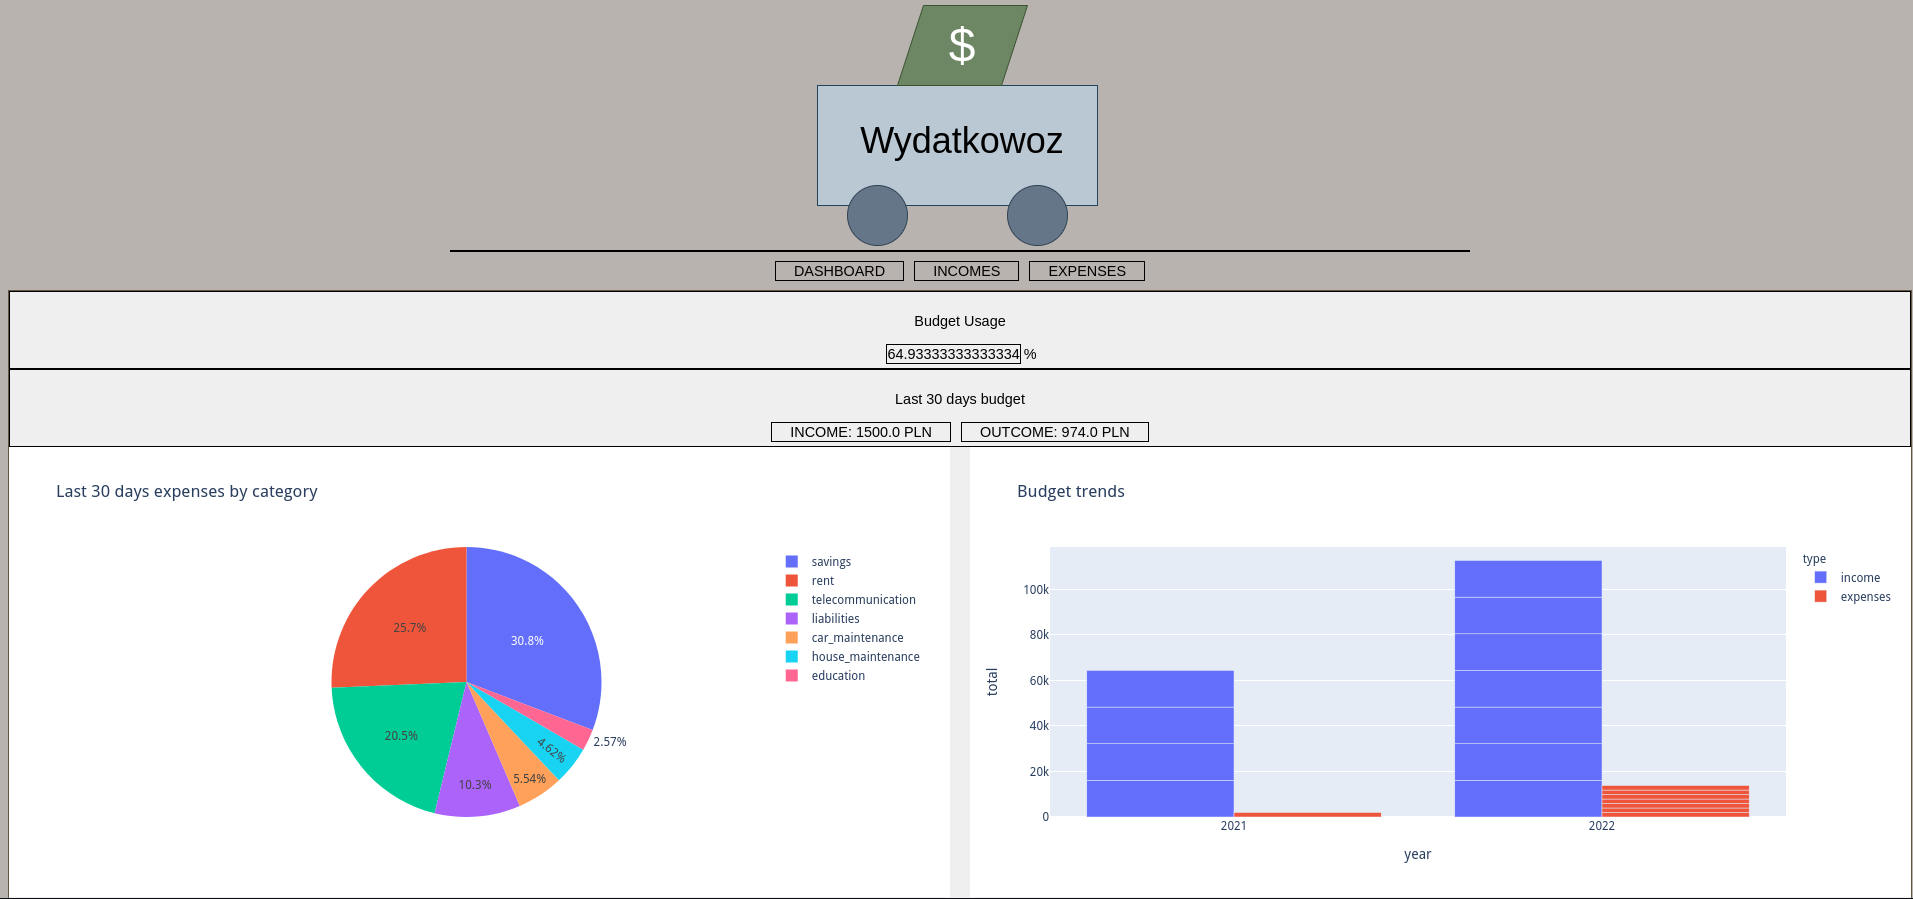
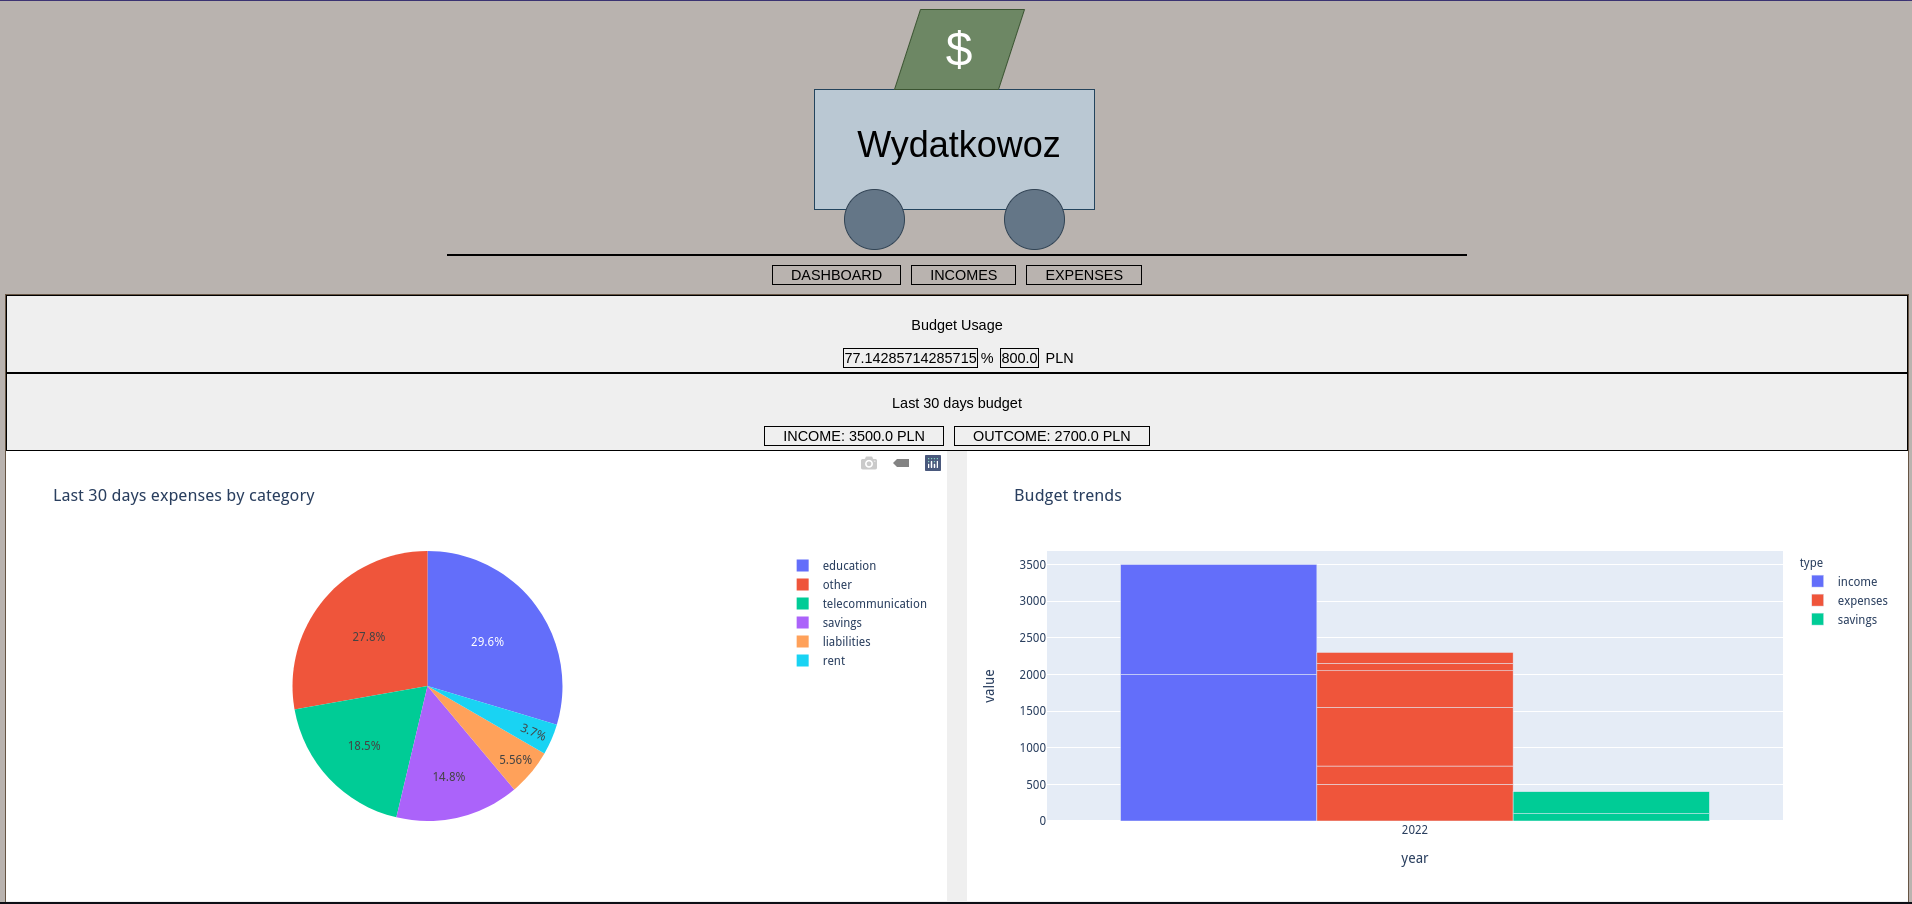
Title: Added delete and update operations for expenses
Details:
 1. Added delete and update operations for expenses
 2. Added api version to CRUD operations for expenses
 3. Added average line to existed budget plot

diff --git a/web/templates/edit_expenses.html b/web/templates/edit_expenses.html
@@ -1,0 +1,35 @@
+{% extends "index.html" %}
+{% block base %}
+<div id="form_box">
+    <p>Edit Expenses</p>
+    {% for item in items %}
+        <form class="form_navi" method="POST" action="{{ url_for('UpdateExpenses')}}">
+            <input type="hidden" name="id" value="{{ item[0] }}">
+            <label>Date</label>
+            <input type="date" name="outcome_date" value="{{ item[2] }}" required="required">
+            <label>Expenses</label>
+            <input type="text" name="outcome" value="{{ item[3] }}" required="required">
+            <label>Description</label>
+            <input type="text" name="description" value="{{ item[4] }}">
+            <label>Category</label>
+            <select name="category">
+                <option value=0>rent</option>
+                <option value=1>savings</option>
+                <option value=2>telecommunication</option>
+                <option value=3>liabilities</option>
+                <option value=4>house_maintenance</option>
+                <option value=5>car_maintenance</option>
+                <option value=6>education</option>
+                <option value=7>entertainment</option>
+                <option value=8 selected>other</option>
+            </select>
+            <label>Was payed?</label>
+            <input type="radio" name="waspayed" value="True" checked="checked">
+            yes
+            <input type="radio" name="waspayed" value="False">
+            no
+            <input type="submit" value="Submit">
+        </form>
+    {% endfor %}
+</div>
+{% endblock %}

diff --git a/web/templates/outcomes.html b/web/templates/outcomes.html
@@ -36,6 +36,7 @@
         <th>Description</th>
         <th>Category</th>
         <th>wasPayed?</th>
+        <th>Actions</th>
     </tr>
     {% for item in items %}
     <tr>
@@ -44,6 +45,10 @@
     <td> {{ item[4] }}</td>
     <td> {{ item[5] }}</td>
     <td> {{ item[6] }}</td>
+    <td>
+        <a href="{{ url_for('DeleteExpenses', id=item[0]) }}">Delete</a>
+        <a href="{{ url_for('EditExpenses', id=item[0]) }}">Edit</a>
+    </td>
     </tr>
     {% endfor %}
 </table>

diff --git a/resources/restApi.py b/resources/restApi.py
@@ -75,11 +75,19 @@ def NewIncomes():
 
 @app.route('/api/v1/expenses',methods=['POST'])
 def NewExpenses():
-    date = flask.request.form['outcome_date']
-    outcome = flask.request.form['outcome']
-    description = flask.request.form['description']
-    category = flask.request.form['category']
-    waspayed = flask.request.form['waspayed']
+    if flask.request.content_type == 'application/json':
+        json_data = flask.request.json
+        date = json_data['date']
+        outcome = json_data['value']
+        description = json_data['name']
+        category = json_data['category']
+        waspayed = json_data['waspayed']
+    else:
+        date = flask.request.form['outcome_date']
+        outcome = flask.request.form['outcome']
+        description = flask.request.form['description']
+        category = flask.request.form['category']
+        waspayed = flask.request.form['waspayed']
     if description:
         data = {'date':date, 'value':outcome, 'name':description, 'category':int(category),'was_payed':waspayed}
     else:
@@ -133,13 +141,45 @@ def UpdateIncomes():
         response = db.UpdateIncome(id,date,date,income,description)
         return flask.render_template('status.html', value=response)
 
-@app.route('/api/v1/expenses/id=<int:id>',methods=['DELETE'])
+@app.route('/api/v1/expenses/delete/<int:id>',methods=['DELETE','GET'])
 def DeleteExpenses(id):
     db = utils.BudgetDatabase(systemVariables.budgetDatabasesPath)
-    response = db.DelExpenses(id)
     if flask.request.content_type == 'application/json':
+        if flask.request.method == 'DELETE':
+            response = db.DelExpenses(id)
+            return flask.jsonify(response)
+        else:
+            return 'Wrong method...', 500
+    else:
+        response = db.DelExpenses(id)
+        return flask.render_template('status.html', value=response)
+
+@app.route('/api/v1/expenses/edit/<int:id>',methods=['GET'])
+def EditExpenses(id):
+    db = utils.BudgetDatabase(systemVariables.budgetDatabasesPath)
+    return flask.render_template('edit_expenses.html',items=db.GetExpenses(id))
+
+@app.route('/api/v1/expenses/update',methods=['POST'])
+def UpdateExpenses():
+    db = utils.BudgetDatabase(systemVariables.budgetDatabasesPath)
+    if flask.request.content_type == 'application/json':
+        json_data = flask.request.json
+        id = json_data['id']
+        date = json_data['date']
+        outcome = json_data['value']
+        description = json_data['name']
+        category = json_data['category']
+        waspayed = json_data['waspayed']
+        response = db.UpdateExpenses(id,date,date,outcome,description,category,waspayed)
         return flask.jsonify(response)
     else:
+        id = flask.request.form['id']
+        date = flask.request.form['outcome_date']
+        outcome = flask.request.form['outcome']
+        description = flask.request.form['description']
+        category = flask.request.form['category']
+        waspayed = flask.request.form['waspayed']
+        response = db.UpdateExpenses(id,date,date,outcome,description,category,waspayed)
         return flask.render_template('status.html', value=response)
 
 if __name__ == '__main__':

diff --git a/resources/utils.py b/resources/utils.py
@@ -194,6 +194,13 @@ class BudgetDatabase:
             self.allExpenses = self.cur.execute('SELECT * FROM Expenses ORDER BY TIMESTAMP ASC;').fetchall()
         return self.allExpenses
 
+    def GetExpenses(self,id):
+        self.id = id
+        self.conn = sqlite3.connect(self.path)
+        self.cur = self.conn.cursor()
+        self.income = self.cur.execute('SELECT * FROM Expenses WHERE ExpenseId='+str(self.id)+';')
+        return self.income
+
     def GetExpensesByDate(self,delta):
         self.delta = delta
         self.lastNdays = int((datetime.datetime.now() - datetime.timedelta(days=self.delta)).timestamp())
@@ -267,6 +274,21 @@ class BudgetDatabase:
         self.conn.commit()
         logger.info('Income has been updated - id:'+str(self.id)+' timestamp:'+str(self.timestamp)+' date:'+str(self.date)+' value: '+str(self.value)+' name: '+str(self.name))
         return 'Income has been updated - id: '+str(self.id)+' timestamp: '+str(self.timestamp)+' date: '+str(self.date)+' value: '+str(self.value)+' name: '+str(self.name)
+
+    def UpdateExpenses(self,id, timestamp, date, value, name, category, was_payed):
+        self.id = id
+        self.timestamp = self.EpochConverter(timestamp)
+        self.date = date
+        self.name = name
+        self.value = value
+        self.category = systemVariables.ExpensesCategories[int(category)]
+        self.was_payed = was_payed
+        self.conn = sqlite3.connect(self.path)
+        self.cur = self.conn.cursor()
+        self.income = self.cur.execute("UPDATE Expenses SET TIMESTAMP=%s,DATE='%s',VALUE=%s,NAME='%s',CATEGORY='%s',WAS_PAYED=%s WHERE ExpenseId=%s;" % (self.timestamp, self.date, self.value, self.name, self.category, self.was_payed, self.id))
+        self.conn.commit()
+        logger.info('Expense has been updated - id:'+str(self.id)+' timestamp:'+str(self.timestamp)+' date:'+str(self.date)+' value: '+str(self.value)+' name: '+str(self.name)+' category: '+str(self.category)+' was_payed: '+str(self.was_payed))
+        return 'Expense has been updated - id:'+str(self.id)+' timestamp:'+str(self.timestamp)+' date:'+str(self.date)+' value: '+str(self.value)+' name: '+str(self.name)+' category: '+str(self.category)+' was_payed: '+str(self.was_payed)
     
     def EpochConverter(self,date,convert=True):
         self.date = date
@@ -289,6 +311,8 @@ class Vizualizer(BudgetDatabase):
         savings['type'] = 'savings'
         data = income.append(expenses).append(savings)
         fig = px.bar(data,x='date',y='value',color="type", title='Budget summary',barmode='stack')
+        average = px.line(expenses,x='date',y='value').update_traces(line_color="red")
+        fig.add_traces(average.data)
         plot_json = json.dumps(fig, cls=plotly.utils.PlotlyJSONEncoder)
         return plot_json
     

diff --git a/README.md b/README.md
@@ -73,3 +73,61 @@ Remember to assign good permissions
 > systemctl --user start wydatkowoz.service
 
 > systemctl --user enable wydatkowoz.service
+
+## API documentation
+
+1. Get expenses
+
+```
+curl -k -H "Content-Type: application/json" http://127.0.0.1:8080/api/v1/expenses
+
+```
+
+2. Get incomes
+
+```
+curl -k -H "Content-Type: application/json" http://127.0.0.1:8080/api/v1/incomes
+
+```
+
+3. New expenses
+
+```
+curl -k -X POST -H "Content-Type: application/json" --data '{"date":"2022-08-02","value":2000,"name":"test2","category":2,"waspayed":false}' http://127.0.0.1:8080/api/v1/expenses
+
+```
+
+4. New income
+
+```
+curl -k -X POST -H "Content-Type: application/json" --data '{"id":1,"date":"2022-08-02","value":2000,"name":"test2"}' http://127.0.0.1:8080/api/v1/incomes
+
+```
+
+5. Update expenses
+
+```
+curl -k -X POST -H "Content-Type: application/json" --data '{"id":8,"date":"2022-08-02","value":2000,"name":"test2","category":2,"waspayed":false}' http://127.0.0.1:8080/api/v1/expenses/update
+
+```
+
+6. Update income
+
+```
+curl -k -X POST -H "Content-Type: application/json" --data '{"id":1,"date":"2022-08-02","value":2000,"name":"test2"}' http://127.0.0.1:8080/api/v1/incomes/update
+
+```
+
+7. Delete expenses
+
+```
+curl -k -X DELETE -H "Content-Type: application/json" http://127.0.0.1:8080/api/v1/expenses/delete/2
+
+```
+
+8. Delete income
+
+```
+curl -k -X DELETE -H "Content-Type: application/json" http://127.0.0.1:8080/api/v1/incomes/delete/2
+
+```
